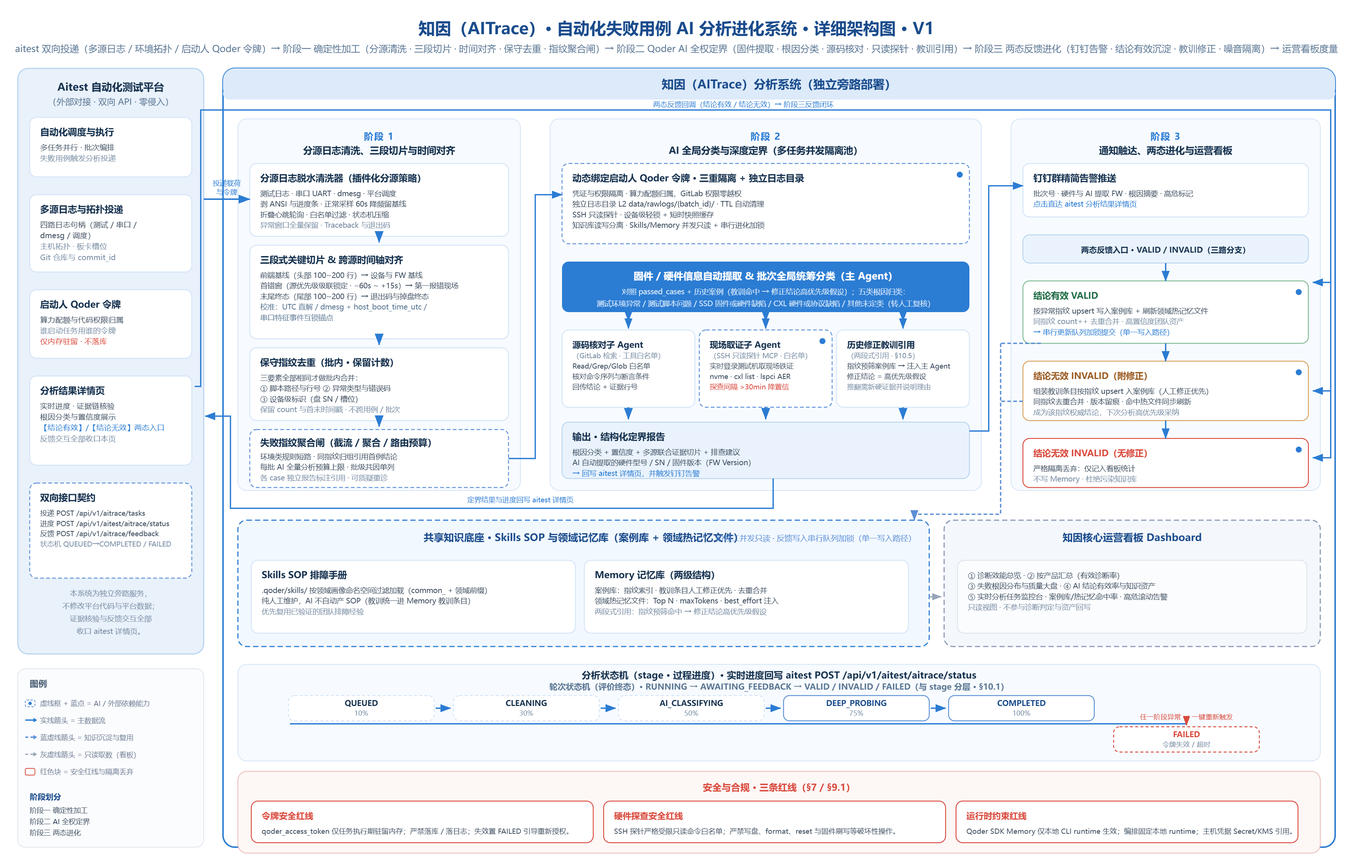
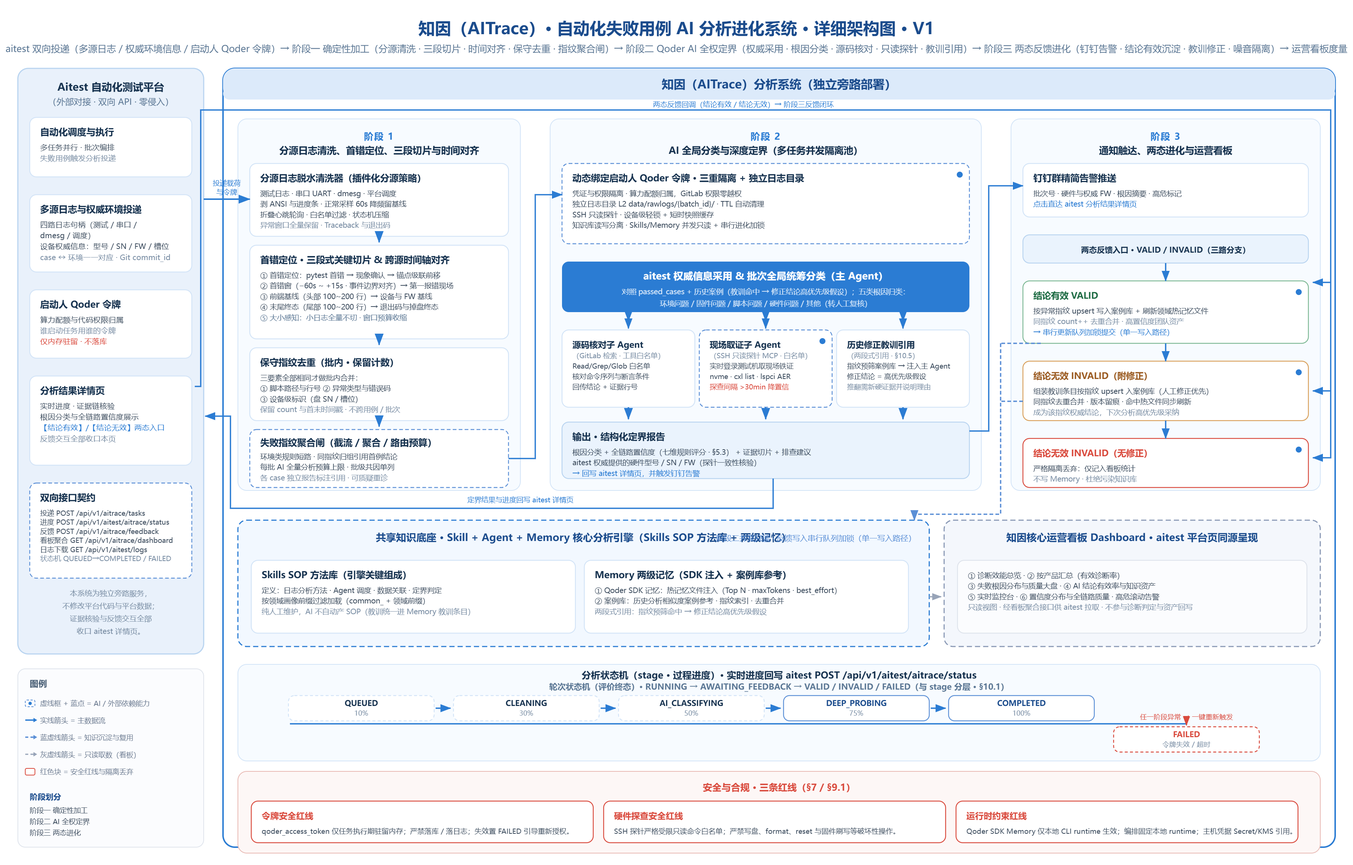
docs: V1 阶段一清洗流水线重构（首错定位/大小感知三段切片）、全链路置信度七维规则评分、aitest 权威信息契约与看板双端呈现、日志下载接口、根因五类闭集收敛为环境/固件/脚本/硬件/其他；图件同步重渲染

diff --git a/architecture-v1-detail.html b/architecture-v1-detail.html
@@ -33,7 +33,7 @@
   </defs>
 <rect x="0" y="0" width="1820" height="1164" rx="9" fill="#ffffff"/>
 <text x="910" y="46" text-anchor="middle" font-size="22" font-weight="700" fill="#1a4b8c">知因（AITrace）· 自动化失败用例 AI 分析进化系统 · 详细架构图 · V1</text>
-<text x="910" y="70" text-anchor="middle" font-size="12.5" fill="#5b7794">aitest 双向投递（多源日志 / 环境拓扑 / 启动人 Qoder 令牌）→ 阶段一 确定性加工（分源清洗 · 三段切片 · 时间对齐 · 保守去重 · 指纹聚合闸）→ 阶段二 Qoder AI 全权定界（固件提取 · 根因分类 · 源码核对 · 只读探针 · 教训引用）→ 阶段三 两态反馈进化（钉钉告警 · 结论有效沉淀 · 教训修正 · 噪音隔离）→ 运营看板度量</text>
+<text x="910" y="70" text-anchor="middle" font-size="12.5" fill="#5b7794">aitest 双向投递（多源日志 / 权威环境信息 / 启动人 Qoder 令牌）→ 阶段一 确定性加工（分源清洗 · 三段切片 · 时间对齐 · 保守去重 · 指纹聚合闸）→ 阶段二 Qoder AI 全权定界（权威采用 · 根因分类 · 源码核对 · 只读探针 · 教训引用）→ 阶段三 两态反馈进化（钉钉告警 · 结论有效沉淀 · 教训修正 · 噪音隔离）→ 运营看板度量</text>
 <rect x="24" y="92" width="250" height="788" rx="14" fill="#e9f1fb" stroke="#b9d4f0" stroke-width="1.5"/>
 <text x="149.0" y="122" text-anchor="middle" font-size="14" font-weight="700" fill="#16324f">Aitest 自动化测试平台</text>
 <text x="149.0" y="141" text-anchor="middle" font-size="11.6" fill="#5b7794">（外部对接 · 双向 API · 零侵入）</text>
@@ -42,11 +42,11 @@
 <text x="54" y="202.0" font-size="10.2" fill="#3a4a5c">多任务并行 · 批次编排</text>
 <text x="54" y="216.6" font-size="10.2" fill="#7b8fa5">失败用例触发分析投递</text>
 <rect x="40" y="262" width="218" height="104" rx="9" fill="#ffffff" stroke="#d3e4f7" stroke-width="1.2"/>
-<text x="54" y="286" font-size="12.4" font-weight="700" fill="#16324f">多源日志与拓扑投递</text>
+<text x="54" y="286" font-size="12.4" font-weight="700" fill="#16324f">多源日志与权威环境投递</text>
 <text x="54" y="306.0" font-size="10.2" fill="#3a4a5c">四路日志句柄（测试 / 串口 /</text>
 <text x="54" y="320.6" font-size="10.2" fill="#3a4a5c">dmesg / 调度）</text>
-<text x="54" y="335.2" font-size="10.2" fill="#7b8fa5">主机拓扑 · 板卡槽位</text>
-<text x="54" y="349.8" font-size="10.2" fill="#7b8fa5">Git 仓库与 commit_id</text>
+<text x="54" y="335.2" font-size="10.2" fill="#3a4a5c">设备权威信息：型号 / SN / FW / 槽位</text>
+<text x="54" y="349.8" font-size="10.2" fill="#7b8fa5">case ↔ 环境一一对应 · Git commit_id</text>
 <rect x="40" y="390" width="218" height="92" rx="9" fill="#ffffff" stroke="#d3e4f7" stroke-width="1.2"/>
 <text x="54" y="414" font-size="12.4" font-weight="700" fill="#16324f">启动人 Qoder 令牌</text>
 <text x="54" y="434.0" font-size="10.2" fill="#3a4a5c">算力配额与代码权限归属</text>
@@ -55,15 +55,17 @@
 <rect x="40" y="506" width="218" height="120" rx="9" fill="#ffffff" stroke="#d3e4f7" stroke-width="1.2"/>
 <text x="54" y="530" font-size="12.4" font-weight="700" fill="#16324f">分析结果详情页</text>
 <text x="54" y="550.0" font-size="10.2" fill="#3a4a5c">实时进度 · 证据链核验</text>
-<text x="54" y="564.6" font-size="10.2" fill="#3a4a5c">根因分类与置信度展示</text>
+<text x="54" y="564.6" font-size="10.2" fill="#3a4a5c">根因分类与全链路置信度展示</text>
 <text x="54" y="579.2" font-size="10.2" fill="#2b7cd3">【结论有效】/【结论无效】两态入口</text>
 <text x="54" y="593.8" font-size="10.2" fill="#7b8fa5">反馈交互全部收口本页</text>
 <rect x="40" y="650" width="218" height="128" rx="9" fill="#ffffff" stroke="#5b8fd6" stroke-width="1.2" stroke-dasharray="5 3"/>
 <text x="54" y="674" font-size="12.4" font-weight="700" fill="#16324f">双向接口契约</text>
 <text x="54" y="694.0" font-size="9.4" fill="#3a4a5c">投递  POST /api/v1/aitrace/tasks</text>
-<text x="54" y="707.8" font-size="9.4" fill="#3a4a5c">进度  POST /api/v1/aitest/aitrace/status</text>
-<text x="54" y="721.6" font-size="9.4" fill="#3a4a5c">反馈  POST /api/v1/aitrace/feedback</text>
-<text x="54" y="735.4" font-size="9.4" fill="#7b8fa5">状态机  QUEUED→COMPLETED / FAILED</text>
+<text x="54" y="706.2" font-size="9.4" fill="#3a4a5c">进度  POST /api/v1/aitest/aitrace/status</text>
+<text x="54" y="718.4" font-size="9.4" fill="#3a4a5c">反馈  POST /api/v1/aitrace/feedback</text>
+<text x="54" y="730.6" font-size="9.4" fill="#3a4a5c">看板聚合  GET /api/v1/aitrace/dashboard</text>
+<text x="54" y="742.8" font-size="9.4" fill="#3a4a5c">日志下载  GET /api/v1/aitest/logs</text>
+<text x="54" y="755.0" font-size="9.4" fill="#7b8fa5">状态机  QUEUED→COMPLETED / FAILED</text>
 <text x="149.0" y="802" text-anchor="middle" font-size="10" fill="#7b8fa5">本系统为独立旁路服务，</text>
 <text x="149.0" y="819" text-anchor="middle" font-size="10" fill="#7b8fa5">不修改平台代码与平台数据；</text>
 <text x="149.0" y="836" text-anchor="middle" font-size="10" fill="#7b8fa5">证据核验与反馈交互全部</text>
@@ -74,7 +76,7 @@
 <text x="1048.0" y="119" text-anchor="middle" font-size="16" font-weight="700" fill="#1a4b8c">知因（AITrace）分析系统（独立旁路部署）</text>
 <rect x="320" y="160" width="380" height="500" rx="12" fill="#f7fbff" stroke="#d3e4f7" stroke-width="1"/>
 <text x="510.0" y="188" text-anchor="middle" font-size="12.6" font-weight="600" letter-spacing="1" fill="#2b7cd3">阶段 1</text>
-<text x="510.0" y="207" text-anchor="middle" font-size="12.8" font-weight="700" fill="#16324f">分源日志清洗、三段切片与时间对齐</text>
+<text x="510.0" y="207" text-anchor="middle" font-size="12.8" font-weight="700" fill="#16324f">分源日志清洗、首错定位、三段切片与时间对齐</text>
 <rect x="336" y="220" width="348" height="98" rx="9" fill="#ffffff" stroke="#d3e4f7" stroke-width="1.2"/>
 <text x="350" y="244" font-size="12.4" font-weight="700" fill="#16324f">分源日志脱水清洗器（插件化分源策略）</text>
 <text x="350" y="264.0" font-size="9.8" fill="#3a4a5c">测试日志 · 串口 UART · dmesg · 平台调度</text>
@@ -82,12 +84,12 @@
 <text x="350" y="292.4" font-size="9.8" fill="#3a4a5c">折叠心跳轮询 · 白名单过滤 · 状态机压缩</text>
 <text x="350" y="306.6" font-size="9.8" fill="#7b8fa5">异常窗口全量保留 · Traceback 与退出码</text>
 <rect x="336" y="330" width="348" height="126" rx="9" fill="#ffffff" stroke="#d3e4f7" stroke-width="1.2"/>
-<text x="350" y="354" font-size="12.4" font-weight="700" fill="#16324f">三段式关键切片 &amp; 跨源时间轴对齐</text>
-<text x="350" y="374.0" font-size="9.8" fill="#3a4a5c">前端基线（头部 100~200 行）→ 设备与 FW 基线</text>
-<text x="350" y="388.2" font-size="9.8" fill="#3a4a5c">首错窗（源优先级级联锁定 · −60s ~ +15s）→ 第一报错现场</text>
-<text x="350" y="402.4" font-size="9.8" fill="#3a4a5c">末尾终态（尾部 100~200 行）→ 退出码与掉盘终态</text>
-<text x="350" y="416.6" font-size="9.8" fill="#5b7794">校准：UTC 直解 / dmesg + host_boot_time_utc /</text>
-<text x="350" y="430.8" font-size="9.8" fill="#5b7794">串口特征事件互锁锚点</text>
+<text x="350" y="354" font-size="12.4" font-weight="700" fill="#16324f">首错定位 · 三段式关键切片 &amp; 跨源时间轴对齐</text>
+<text x="350" y="374.0" font-size="9.8" fill="#3a4a5c">① 首错定位：pytest 首错 → 现象确认 → 锚点级联前移</text>
+<text x="350" y="388.2" font-size="9.8" fill="#3a4a5c">② 首错窗（−60s ~ +15s · 事件边界对齐）→ 第一报错现场</text>
+<text x="350" y="402.4" font-size="9.8" fill="#3a4a5c">③ 前端基线（头部 100~200 行）→ 设备与 FW 基线</text>
+<text x="350" y="416.6" font-size="9.8" fill="#3a4a5c">④ 末尾终态（尾部 100~200 行）→ 退出码与掉盘终态</text>
+<text x="350" y="430.8" font-size="9.8" fill="#5b7794">⑤ 大小感知：小日志全量不切 · 窗口预算收缩</text>
 <rect x="336" y="468" width="348" height="98" rx="9" fill="#ffffff" stroke="#d3e4f7" stroke-width="1.2"/>
 <text x="350" y="492" font-size="12.4" font-weight="700" fill="#16324f">保守指纹去重（批内 · 保留计数）</text>
 <text x="350" y="512.0" font-size="9.8" fill="#3a4a5c">三要素全部相同才做批内合并：</text>
@@ -113,9 +115,9 @@
 <text x="770" y="292.4" font-size="9.8" fill="#3a4a5c">SSH 只读探针 · 设备级轻锁 + 短时快照缓存</text>
 <text x="770" y="306.6" font-size="9.8" fill="#3a4a5c">知识库读写分离 · Skills/Memory 并发只读 + 串行进化加锁</text>
 <rect x="756" y="352" width="548" height="68" rx="9" fill="#2b7cd3"/>
-<text x="1030.0" y="376" text-anchor="middle" font-size="13.2" font-weight="700" fill="#ffffff">固件 / 硬件信息自动提取 &amp; 批次全局统筹分类（主 Agent）</text>
+<text x="1030.0" y="376" text-anchor="middle" font-size="13.2" font-weight="700" fill="#ffffff">aitest 权威信息采用 &amp; 批次全局统筹分类（主 Agent）</text>
 <text x="1030.0" y="396" text-anchor="middle" font-size="9.8" fill="#d5e6f9">对照 passed_cases + 历史案例（教训命中 → 修正结论高优先级假设）；五类根因归类：</text>
-<text x="1030.0" y="412" text-anchor="middle" font-size="9.8" fill="#d5e6f9">测试环境异常 / 测试脚本问题 / SSD 固件或硬件缺陷 / CXL 硬件或协议缺陷 / 其他未定类（转人工复核）</text>
+<text x="1030.0" y="412" text-anchor="middle" font-size="9.8" fill="#d5e6f9">环境问题 / 固件问题 / 脚本问题 / 硬件问题 / 其他（转人工复核）</text>
 <rect x="756.0" y="444" width="178.66666666666666" height="104" rx="9" fill="#ffffff" stroke="#d3e4f7" stroke-width="1.2"/>
 <text x="770.0" y="468" font-size="11.4" font-weight="700" fill="#16324f">源码核对子 Agent</text>
 <text x="770.0" y="482.0" font-size="9.4" fill="#7b8fa5">（GitLab 检索 · 工具白名单）</text>
@@ -143,8 +145,8 @@
 <line x1="1214.6666666666665" y1="432" x2="1214.6666666666665" y2="442" stroke="#2b7cd3" stroke-width="1.8" marker-start="url(#b)" marker-end="url(#b)"/>
 <rect x="756" y="568" width="548" height="76" rx="9" fill="#eaf3fd" stroke="#b9d4f0" stroke-width="1.2"/>
 <text x="770" y="592" font-size="12.4" font-weight="700" fill="#16324f">输出 · 结构化定界报告</text>
-<text x="770" y="612.0" font-size="9.8" fill="#3a4a5c">根因分类 + 置信度 + 多源联合证据切片 + 排查建议</text>
-<text x="770" y="626.2" font-size="9.8" fill="#3a4a5c">AI 自动提取的硬件型号 / SN / 固件版本（FW Version）</text>
+<text x="770" y="612.0" font-size="9.8" fill="#3a4a5c">根因分类 + 全链路置信度（七维规则评分 · §5.3） + 证据切片 + 排查建议</text>
+<text x="770" y="626.2" font-size="9.8" fill="#3a4a5c">aitest 权威提供的硬件型号 / SN / FW（探针一致性核验）</text>
 <text x="770" y="640.4" font-size="9.8" fill="#2b7cd3">→ 回写 aitest 详情页，并触发钉钉告警</text>
 <line x1="845.3333333333334" y1="548" x2="845.3333333333334" y2="564" stroke="#2b7cd3" stroke-width="2" marker-end="url(#b)"/>
 <line x1="1030.0" y1="548" x2="1030.0" y2="564" stroke="#2b7cd3" stroke-width="2" marker-end="url(#b)"/>
@@ -154,7 +156,7 @@
 <text x="1568.0" y="207" text-anchor="middle" font-size="12.8" font-weight="700" fill="#16324f">通知触达、两态进化与运营看板</text>
 <rect x="1376" y="220" width="384" height="72" rx="9" fill="#ffffff" stroke="#d3e4f7" stroke-width="1.2"/>
 <text x="1390" y="244" font-size="12.4" font-weight="700" fill="#16324f">钉钉群精简告警推送</text>
-<text x="1390" y="264.0" font-size="9.8" fill="#3a4a5c">批次号 · 硬件与 AI 提取 FW · 根因摘要 · 高危标记</text>
+<text x="1390" y="264.0" font-size="9.8" fill="#3a4a5c">批次号 · 硬件与权威 FW · 根因摘要 · 高危标记</text>
 <text x="1390" y="278.2" font-size="9.8" fill="#2b7cd3">点击直达 aitest 分析结果详情页</text>
 <rect x="1376" y="316" width="384" height="38" rx="9" fill="#eaf3fd" stroke="#b9d4f0" stroke-width="1.2"/>
 <text x="1568.0" y="340" text-anchor="middle" font-size="10.6" font-weight="700" fill="#16324f">两态反馈入口 · VALID / INVALID（三路分支）</text>
@@ -179,25 +181,25 @@
 <line x1="1568.0" y1="462" x2="1568.0" y2="486" stroke="#2b7cd3" stroke-width="1.8" marker-end="url(#b)"/>
 <line x1="1568.0" y1="566" x2="1568.0" y2="590" stroke="#2b7cd3" stroke-width="1.8" marker-end="url(#b)"/>
 <rect x="320" y="700" width="930" height="170" rx="12" fill="#f2f8ff" stroke="#2b7cd3" stroke-width="1.5" stroke-dasharray="7 4"/>
-<text x="785.0" y="728" text-anchor="middle" font-size="13.6" font-weight="700" fill="#1a4b8c">共享知识底座 · Skills SOP 与领域记忆库（案例库 + 领域热记忆文件）</text>
+<text x="785.0" y="728" text-anchor="middle" font-size="13.6" font-weight="700" fill="#1a4b8c">共享知识底座 · Skill + Agent + Memory 核心分析引擎（Skills SOP 方法库 + 两级记忆）</text>
 <text x="1232" y="728" text-anchor="end" font-size="10.4" fill="#5b8fd6">阶段二并发只读 · 反馈写入串行队列加锁（单一写入路径）</text>
 <rect x="338" y="754" width="436" height="98" rx="9" fill="#ffffff" stroke="#d3e4f7" stroke-width="1.2"/>
-<text x="352" y="778" font-size="12.4" font-weight="700" fill="#16324f">Skills SOP 排障手册</text>
-<text x="352" y="798.0" font-size="9.8" fill="#3a4a5c">.qoder/skills/ 按领域画像命名空间过滤加载（common_ + 领域前缀）</text>
-<text x="352" y="812.2" font-size="9.8" fill="#3a4a5c">纯人工维护，AI 不自动产 SOP（教训统一进 Memory 教训条目）</text>
-<text x="352" y="826.4" font-size="9.8" fill="#7b8fa5">优先复用已验证的团队排障经验</text>
+<text x="352" y="778" font-size="12.4" font-weight="700" fill="#16324f">Skills SOP 方法库（引擎关键组成）</text>
+<text x="352" y="798.0" font-size="9.8" fill="#3a4a5c">定义：日志分析方法 · Agent 调度 · 数据关联 · 定界判定</text>
+<text x="352" y="812.2" font-size="9.8" fill="#3a4a5c">按领域画像前缀过滤加载（common_ + 领域前缀）</text>
+<text x="352" y="826.4" font-size="9.8" fill="#7b8fa5">纯人工维护，AI 不自动产 SOP（教训统一进 Memory 教训条目）</text>
 <rect x="786" y="754" width="436" height="98" rx="9" fill="#ffffff" stroke="#d3e4f7" stroke-width="1.2"/>
-<text x="800" y="778" font-size="12.4" font-weight="700" fill="#16324f">Memory 记忆库（两级结构）</text>
-<text x="800" y="798.0" font-size="9.8" fill="#3a4a5c">案例库：指纹索引 · 教训条目人工修正优先 · 去重合并</text>
-<text x="800" y="812.2" font-size="9.8" fill="#3a4a5c">领域热记忆文件：Top N · maxTokens · best_effort 注入</text>
+<text x="800" y="778" font-size="12.4" font-weight="700" fill="#16324f">Memory 两级记忆（SDK 注入 + 案例库参考）</text>
+<text x="800" y="798.0" font-size="9.8" fill="#3a4a5c">① Qoder SDK 记忆：热记忆文件注入（Top N · maxTokens · best_effort）</text>
+<text x="800" y="812.2" font-size="9.8" fill="#3a4a5c">② 案例库：历史分析相似度案例参考 · 指纹索引 · 去重合并</text>
 <text x="800" y="826.4" font-size="9.8" fill="#7b8fa5">两段式引用：指纹预筛命中 → 修正结论高优先级假设</text>
 <rect x="1270" y="700" width="506" height="170" rx="12" fill="#f4f7fc" stroke="#8a99b5" stroke-width="1.5" stroke-dasharray="7 4"/>
-<text x="1523.0" y="728" text-anchor="middle" font-size="13.6" font-weight="700" fill="#1a4b8c">知因核心运营看板  Dashboard</text>
+<text x="1523.0" y="728" text-anchor="middle" font-size="13.6" font-weight="700" fill="#1a4b8c">知因核心运营看板  Dashboard · aitest 平台页同源呈现</text>
 <rect x="1288" y="754" width="470" height="98" rx="9" fill="#fbfcfe" stroke="#dfe4ec" stroke-width="1.2"/>
 <text x="1302" y="778.0" font-size="9.8" fill="#3a4a5c">① 诊断效能总览 · ② 按产品汇总（有效诊断率）</text>
 <text x="1302" y="792.2" font-size="9.8" fill="#3a4a5c">③ 失败根因分布与质量大盘 · ④ AI 结论有效率与知识资产</text>
-<text x="1302" y="806.4" font-size="9.8" fill="#3a4a5c">⑤ 实时分析任务监控台 · 案例库/热记忆命中率 · 高危滚动告警</text>
-<text x="1302" y="820.6" font-size="9.8" fill="#7b8fa5">只读视图 · 不参与诊断判定与资产回写</text>
+<text x="1302" y="806.4" font-size="9.8" fill="#3a4a5c">⑤ 实时监控台 · ⑥ 置信度分布与全链路质量 · 高危滚动告警</text>
+<text x="1302" y="820.6" font-size="9.8" fill="#7b8fa5">只读视图 · 经看板聚合接口供 aitest 拉取 · 不参与诊断判定与资产回写</text>
 <rect x="320" y="894" width="1456" height="130" rx="12" fill="#f7fbff" stroke="#d3e4f7" stroke-width="1"/>
 <text x="1048.0" y="913" text-anchor="middle" font-size="12.6" font-weight="700" fill="#16324f">分析状态机（stage · 过程进度）· 实时进度回写 aitest  POST /api/v1/aitest/aitrace/status</text>
 <text x="1048.0" y="928" text-anchor="middle" font-size="11" font-weight="600" fill="#5b7794">轮次状态机（评价终态）· RUNNING → AWAITING_FEEDBACK → VALID / INVALID / FAILED（与 stage 分层 · §10.1）</text>
@@ -272,7 +274,6 @@
 <text x="40" y="1094" font-size="9.4" fill="#3a4a5c">阶段一 确定性加工</text>
 <text x="40" y="1109" font-size="9.4" fill="#3a4a5c">阶段二 AI 全权定界</text>
 <text x="40" y="1124" font-size="9.4" fill="#3a4a5c">阶段三 两态进化</text>
-</svg>
 </svg>
 </div></div></body>
 </html>

diff --git a/architecture-v1.html b/architecture-v1.html
@@ -45,7 +45,7 @@
 <g transform="translate(172.0,518) scale(1.9167)" fill="none" stroke="#5B8DEF" stroke-width="1.7" stroke-linecap="round" stroke-linejoin="round"><ellipse cx="9" cy="6" rx="6" ry="2.4"/><path d="M3 6v5.6c0 1.3 2.7 2.4 6 2.4"/><path d="M3 11.6v5.6c0 1.3 2.7 2.4 6 2.4"/><circle cx="17.6" cy="8.6" r="2.3"/><path d="M13.8 19.4c0-2.1 1.7-3.8 3.8-3.8s3.8 1.7 3.8 3.8"/></g>
 <text x="195" y="602" text-anchor="middle" font-weight="700" font-size="18.5" fill="#E6EDF9">case 失败实时投递 +</text>
 <text x="195" y="628" text-anchor="middle" font-weight="700" font-size="18.5" fill="#E6EDF9">任务结束兜底 + 手动检视</text>
-<text x="195" y="654" text-anchor="middle" font-weight="700" font-size="18.5" fill="#E6EDF9">多源日志/基础拓扑 &amp;</text>
+<text x="195" y="654" text-anchor="middle" font-weight="700" font-size="18.5" fill="#E6EDF9">多源日志/权威环境 &amp;</text>
 <text x="195" y="680" text-anchor="middle" font-weight="700" font-size="18.5" fill="#E6EDF9">启动人 Qoder 令牌</text>
 <text x="195" y="704" text-anchor="middle" font-weight="400" font-size="14" fill="#8FA2C0">（测试/串口/dmesg/调度日志）</text>
 <rect x="59" y="759" width="272" height="208" rx="14" fill="#15223A" stroke="#24365A" stroke-width="1.2" filter="url(#sh)"/>
@@ -69,10 +69,10 @@
 <text x="626" y="366" text-anchor="middle" font-weight="400" font-size="14" fill="#8FA2C0">（测试/串口/dmesg/调度）</text>
 <rect x="490" y="416" width="272" height="185" rx="14" fill="#15223A" stroke="#24365A" stroke-width="1.2" filter="url(#sh)"/>
 <g transform="translate(606,438) scale(1.6667)" fill="none" stroke="#5B8DEF" stroke-width="1.7" stroke-linecap="round" stroke-linejoin="round"><circle cx="12" cy="12" r="8.4"/><path d="M12 6.8V12l3.4 2.1"/></g>
-<text x="626" y="510" text-anchor="middle" font-weight="700" font-size="18.5" fill="#E6EDF9">三段式关键切片 &amp;</text>
+<text x="626" y="510" text-anchor="middle" font-weight="700" font-size="18.5" fill="#E6EDF9">首错定位 · 三段式切片</text>
 <text x="626" y="536" text-anchor="middle" font-weight="700" font-size="18.5" fill="#E6EDF9">跨源时间轴对齐</text>
 <text x="626" y="560" text-anchor="middle" font-weight="400" font-size="13.5" fill="#8FA2C0">（前端基线 / 首错时间窗 /</text>
-<text x="626" y="580" text-anchor="middle" font-weight="400" font-size="13.5" fill="#8FA2C0">末尾终态）</text>
+<text x="626" y="580" text-anchor="middle" font-weight="400" font-size="13.5" fill="#8FA2C0">末尾终态 · 小日志不切）</text>
 <rect x="490" y="617" width="272" height="150" rx="14" fill="#15223A" stroke="#24365A" stroke-width="1.2" filter="url(#sh)"/>
 <g transform="translate(606,640) scale(1.6667)" fill="none" stroke="#34D399" stroke-width="1.9" stroke-linecap="round" stroke-linejoin="round"><circle cx="12" cy="12" r="8.4"/><path d="M8.2 12.3l2.7 2.7 5-5.4"/></g>
 <text x="626" y="712" text-anchor="middle" font-weight="700" font-size="18.5" fill="#E6EDF9">保守指纹去重</text>
@@ -97,8 +97,9 @@
 <text x="1191" y="327" text-anchor="middle" font-weight="600" font-size="12.5" fill="#A9C0E4">并发 1/2/…</text>
 <rect x="856" y="428" width="406" height="118" rx="14" fill="#182843" stroke="#28406C" stroke-width="1.2" filter="url(#sh)"/>
 <g transform="translate(874,458) scale(1.6667)" fill="none" stroke="#5B8DEF" stroke-width="1.8" stroke-linecap="round" stroke-linejoin="round"><path d="M14.6 5.6A4.2 4.2 0 0 0 8.4 8 3.6 3.6 0 0 0 7.4 14.4 3.6 3.6 0 0 0 11.6 18a3 3 0 0 0 3-3.2V8.6a3.2 3.2 0 0 0 0-3z"/><path d="M11.4 8.6a2.2 2.2 0 0 1 3.2 2"/><circle cx="17" cy="15.6" r="3.1"/><path d="M19.3 17.9l2.2 2.2"/></g>
-<text x="930" y="474" font-weight="700" font-size="17.5" fill="#E4EBF8">FW/硬件信息自动提取</text>
+<text x="930" y="474" font-weight="700" font-size="17.5" fill="#E4EBF8">aitest 权威信息采用</text>
 <text x="930" y="502" font-weight="400" font-size="14" fill="#93A4C4">&amp; 全局分类（主Agent）</text>
+<text x="930" y="530" font-weight="400" font-size="14" fill="#8FA2C0">全链路置信度（七维规则评分）</text>
 <rect x="856" y="546" width="406" height="118" rx="14" fill="#182843" stroke="#28406C" stroke-width="1.2" filter="url(#sh)"/>
 <g transform="translate(874,576) scale(1.6667)" fill="none" stroke="#5B8DEF" stroke-width="1.8" stroke-linecap="round" stroke-linejoin="round"><path d="M7.6 6L3.5 12l4.1 6"/><path d="M16.4 6l4.1 6-4.1 6"/><path d="M13.6 4.4l-3.2 15.2"/><circle cx="17" cy="16.4" r="2.9"/><path d="M19.1 18.5l2 2"/></g>
 <text x="930" y="592" font-weight="700" font-size="17.5" fill="#E4EBF8">源码核对子 Agent</text>
@@ -113,8 +114,8 @@
 <text x="930" y="856" font-weight="400" font-size="14" fill="#93A4C4">（两段式引用 · 高优先级假设）</text>
 <rect x="856" y="900" width="406" height="118" rx="14" fill="#182843" stroke="#28406C" stroke-width="1.2" filter="url(#sh)"/>
 <g transform="translate(874,930) scale(1.6667)" fill="none" stroke="#5B8DEF" stroke-width="1.8" stroke-linecap="round" stroke-linejoin="round"><path d="M4 5.6A2.6 2.6 0 0 1 6.6 3H19.4v14.6H6.6A2.6 2.6 0 0 0 4 20.2z"/><path d="M19.4 17.6V21H6.6A2.6 2.6 0 0 1 4 18.4"/><path d="M8.6 7.6h6.6M8.6 11h4.6"/></g>
-<text x="930" y="946" font-weight="700" font-size="17.5" fill="#E4EBF8">共享 Skills SOP &amp; 领域记忆库</text>
-<text x="930" y="974" font-weight="400" font-size="14" fill="#93A4C4">（并发只读 / 串行进化）</text>
+<text x="930" y="946" font-weight="700" font-size="17.5" fill="#E4EBF8">Skills SOP 方法库 &amp; 两级记忆</text>
+<text x="930" y="974" font-weight="400" font-size="14" fill="#93A4C4">（Skill + Agent + Memory · 并发只读 / 串行进化）</text>
 <path d="M1296 487 L1338 487" fill="none" stroke="#5B8DEF" stroke-width="2.4" marker-end="url(#ar)"/>
 <rect x="1343" y="145" width="525" height="890" rx="20" fill="#0F1B33" stroke="#22325A" stroke-width="1.6"/>
 <rect x="1343" y="145" width="525" height="6" rx="3" fill="#5B8DEF"/>
@@ -157,7 +158,7 @@
 <rect x="1360" y="712" width="495" height="303" rx="16" fill="#0E1A2E" stroke="#22335A" stroke-width="1.3"/>
 <path d="M1360 726 a14 14 0 0 1 14 -14 h467 a14 14 0 0 1 14 14 v49 h-495 z" fill="#31497E"/>
 <g transform="translate(1378,726) scale(1.2500)" fill="none" stroke="#FFFFFF" stroke-width="1.9" stroke-linecap="round" stroke-linejoin="round"><path d="M4 20.4V4"/><path d="M4 20.4h16.4"/><rect x="7" y="12" width="3.2" height="5.2" rx="1"/><rect x="12.4" y="8" width="3.2" height="9.2" rx="1"/><rect x="17.8" y="14" width="3.2" height="3.2" rx="1"/></g>
-<text x="1420" y="749" font-weight="700" font-size="17" fill="#EAF0FB">知因核心运营看板 (Dashboard)</text>
+<text x="1420" y="749" font-weight="700" font-size="17" fill="#EAF0FB">知因核心运营看板 (Dashboard) · aitest 平台页同源呈现</text>
 <g transform="translate(1812,726) scale(1.2500)" fill="none" stroke="#FFFFFF" stroke-width="1.9" stroke-linecap="round" stroke-linejoin="round"><path d="M3.6 17.4a8.6 8.6 0 1 1 16.8 0"/><path d="M12 16.6l4-4.2"/><circle cx="12" cy="17.4" r="1.3"/></g>
 <rect x="1376" y="782" width="148" height="222" rx="14" fill="#15223A" stroke="#24365A" stroke-width="1.2" filter="url(#sh)"/>
 <g transform="translate(1417.0,806) scale(2.7500)" fill="none" stroke="#5B8DEF" stroke-width="1.6" stroke-linecap="round" stroke-linejoin="round"><circle cx="12" cy="12" r="8.4"/><path d="M12 3.6v8.4h8.4"/></g>
@@ -172,7 +173,6 @@
 <g transform="translate(1741.0,806) scale(2.7500)" fill="none" stroke="#818CF8" stroke-width="1.6" stroke-linecap="round" stroke-linejoin="round"><circle cx="12" cy="12" r="8.4"/><circle cx="12" cy="12" r="4.4"/><path d="M12 3.6v16.8M3.6 12h16.8"/><path d="M12 12l5.6-3.4"/></g>
 <text x="1774.0" y="906" text-anchor="middle" font-weight="700" font-size="17" fill="#E6EDF9">实时分析</text>
 <text x="1774.0" y="936" text-anchor="middle" font-weight="700" font-size="17" fill="#E6EDF9">任务监控台</text>
-</svg>
 </svg>
 </div></div></body>
 </html>
